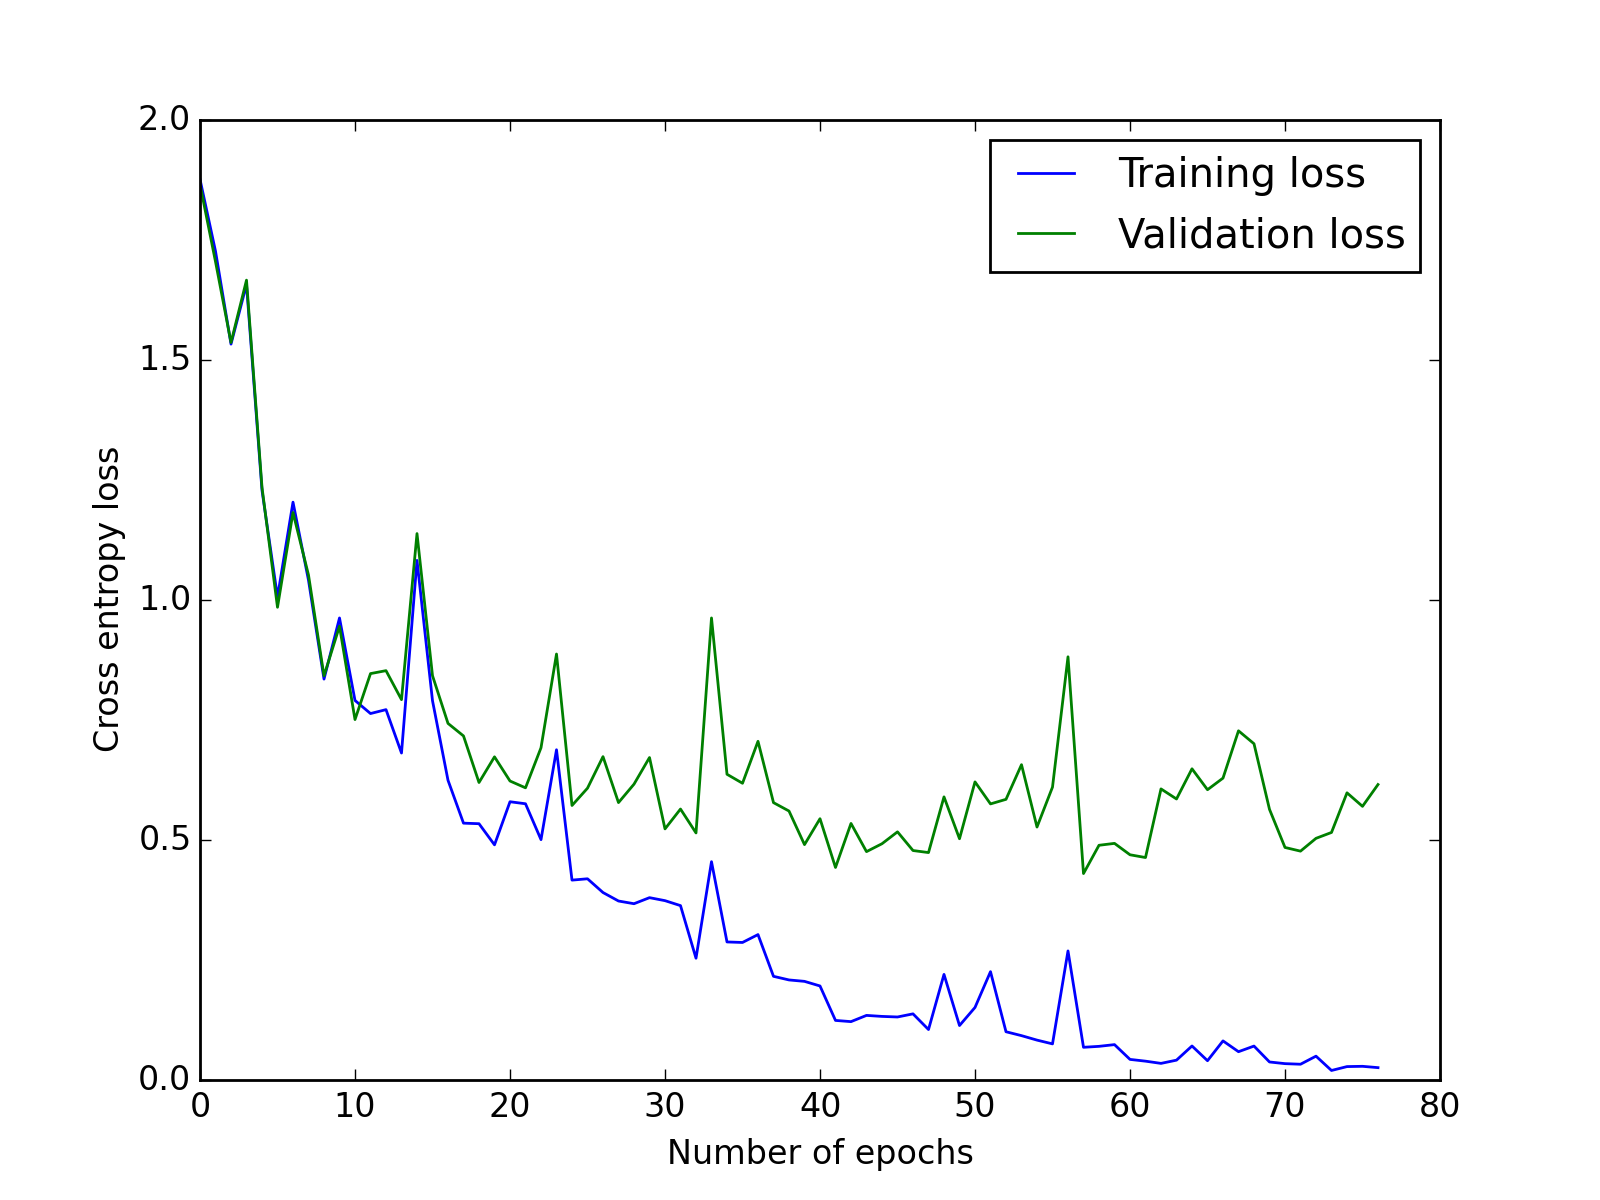
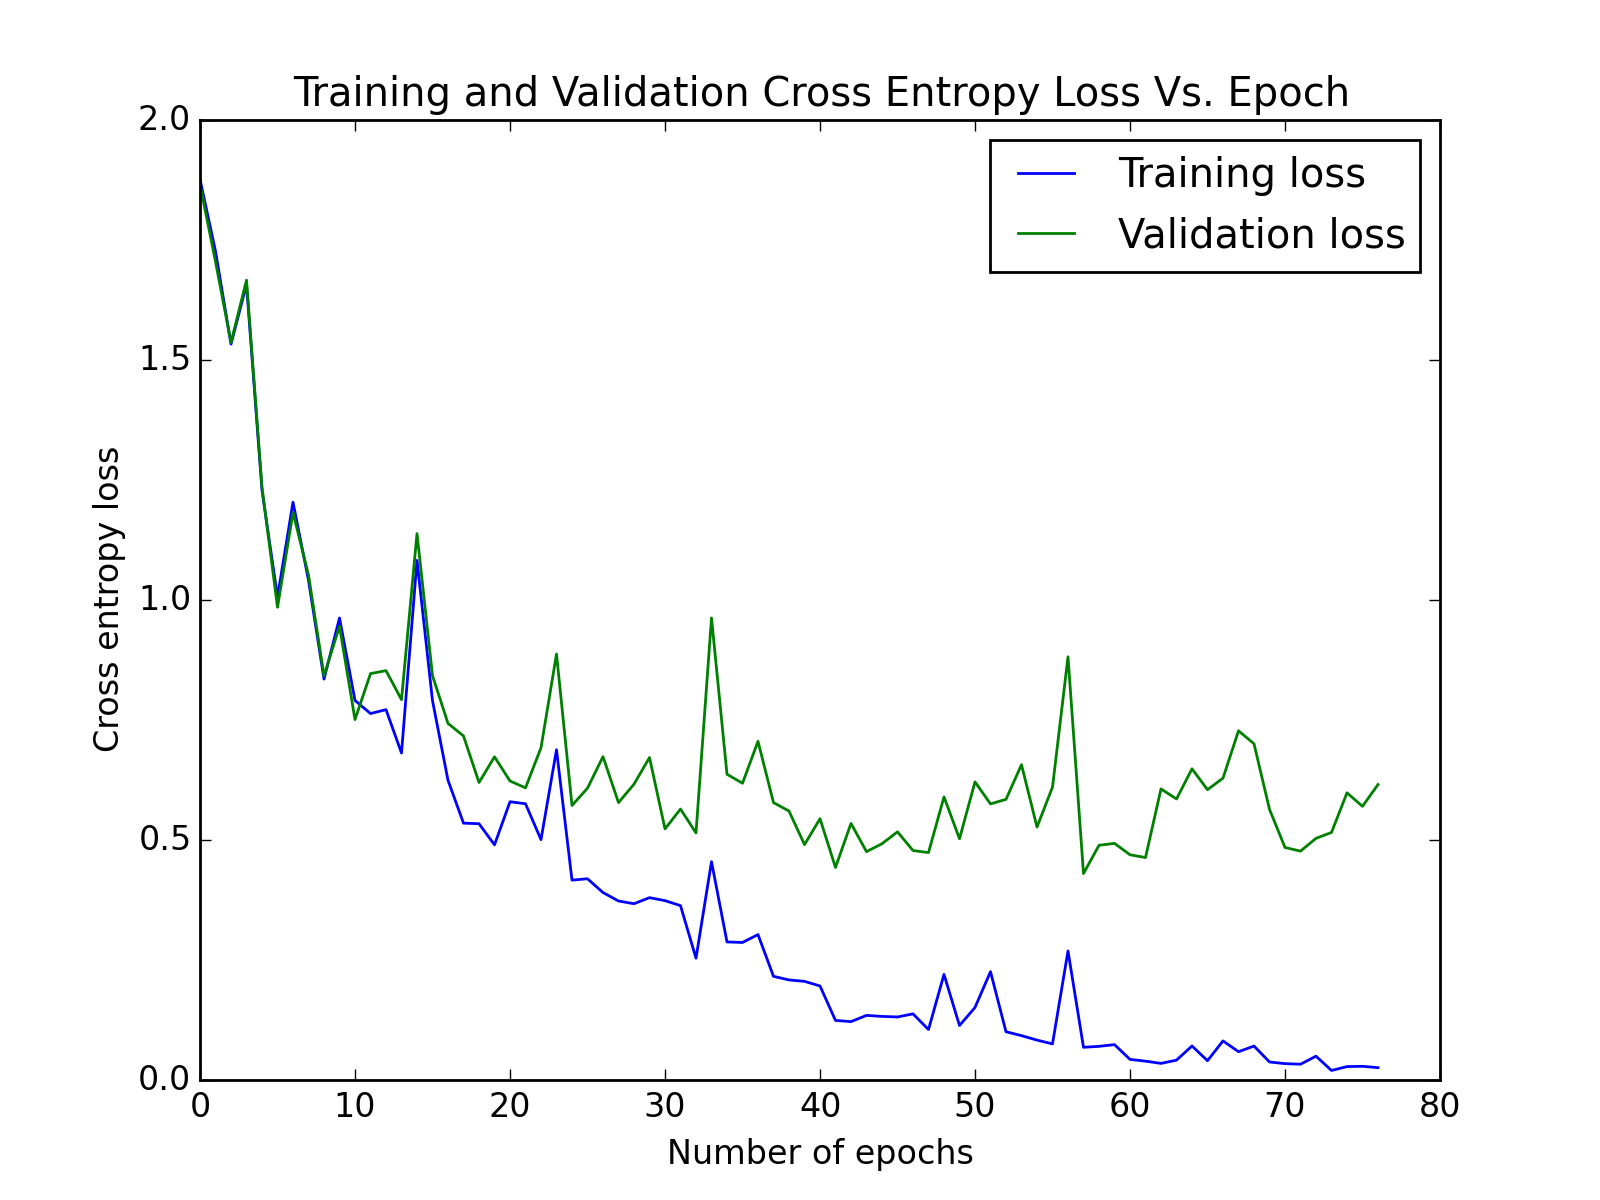
Added titles to plots

Changed region(s): [[0.1875, 0.0617, 0.8438, 0.0925]]

diff --git a/utils.py b/utils.py
@@ -716,6 +716,7 @@ def plot_training_loss_accuracy(data='training_stats.npy'):
     plt.plot(xrange(nb_epoch), training_score[start_index:end_index,0], label='Training loss')
     plt.plot(xrange(nb_epoch), training_score[start_index:end_index,2], label='Validation loss')
     plt.legend()
+    plt.title('Training and Validation Cross Entropy Loss Vs. Epoch')
     plt.xlabel('Number of epochs')
     plt.ylabel('Cross entropy loss')
     plt.savefig('train_loss_vs_epoch.png', dpi=200)
@@ -724,6 +725,7 @@ def plot_training_loss_accuracy(data='training_stats.npy'):
     plt.plot(xrange(nb_epoch), training_score[start_index:end_index,1], label='Training accuracy')
     plt.plot(xrange(nb_epoch), training_score[start_index:end_index,3], label='Validation accuracy')
     plt.legend(loc=4)
+    plt.title('Training and Validation Accuracy Vs. Epoch')
     plt.xlabel('Number of epochs')
     plt.ylabel('Accuracy')
     plt.savefig('train_acc_vs_epoch.png', dpi=200)
